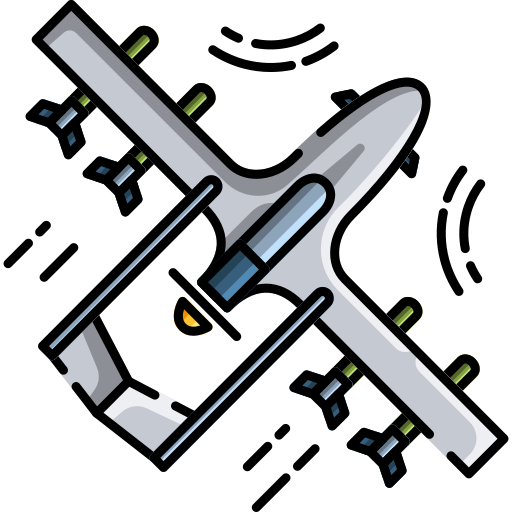
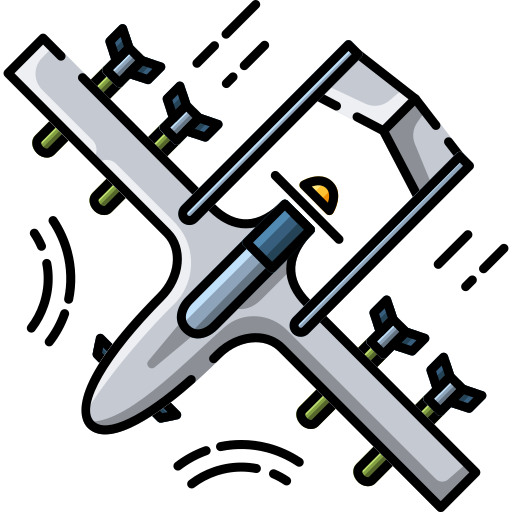
Refactor achievements, autos, and UI indicators
Move achievement detection into Achievements component and remove global achievement state from App; Achievements now receives game state props, tracks unlocked/seen items, and calls onUnlock to play SFX. Export Stages from AutoUpgradeCard and use stage damage for auto-attacks (handleAttack now accepts damage). Update auto/robot/drone stage prices and image asset updated. UpgradeCard now handles MAX state (disables button and shows 'MAX') and Upgrades shows a has-new indicator when affordable upgrades exist. Add .has-new CSS style for visual highlight.

diff --git a/src/App.jsx b/src/App.jsx
@@ -8,27 +8,13 @@ import Money from './Components/Money.jsx';
 import Settings from './Components/Settings.jsx';
 import Achievements from './Components/Achievements.jsx';
 import Upgrades from './Components/Upgrades.jsx';
+import { Stages } from './Components/AutoUpgradeCard.jsx';
 import StartScreen from './Components/StartScreen.jsx';
 import backgroundMusic from './music/background-music.mp3';
 import LevelUpSound from './music/level-up.mp3';
 import MetalTap from './music/metal-tap.mp3';
 import AchievementSound from './music/achievement.mp3';
 import './App.css';
-
-const ACHIEVEMENTS = [
-  { id: 'first_click',  name: 'First Blood',      description: 'Make your first click' },
-  { id: 'clicks_50',   name: 'Warming Up',        description: 'Make 50 clicks' },
-  { id: 'clicks_200',  name: 'Click Machine',     description: 'Make 200 clicks' },
-  { id: 'bonus_coin',  name: 'Lucky Five',        description: 'Trigger the 5-click coin bonus' },
-  { id: 'kills_1',     name: 'First Kill',        description: 'Defeat your first enemy' },
-  { id: 'kills_10',    name: 'Enemy Slayer',       description: 'Defeat 10 enemies' },
-  { id: 'kills_50',    name: 'Destroyer',         description: 'Defeat 50 enemies' },
-  { id: 'coins_50',    name: 'Pocket Change',     description: 'Earn 50 coins' },
-  { id: 'coins_500',   name: 'Stacking Coins',    description: 'Earn 500 coins' },
-  { id: 'level_2',     name: 'Rising Star',       description: 'Reach level 2' },
-  { id: 'level_5',     name: 'Veteran',           description: 'Reach level 5' },
-  { id: 'auto_attack', name: 'Hands Free',        description: 'Buy your first auto upgrade' },
-];
 
 export default function App() {
   const [started, setStarted] = useState(false);
@@ -38,7 +24,6 @@ export default function App() {
   const levelUpSfx = useRef(new Audio(LevelUpSound));
   const metalTapSfx = useRef(new Audio(MetalTap));
   const achievementSfx = useRef(new Audio(AchievementSound));
-  const achievementFirstRender = useRef(true);
 
   levelUpSfx.current.volume = 0.2;
   metalTapSfx.current.volume = 0.2;
@@ -64,7 +49,6 @@ export default function App() {
   const [money, setMoney] = useState(0);
   const [totalMoneyEarned, setTotalMoneyEarned] = useState(0);
   const [enemiesDefeated, setEnemiesDefeated] = useState(0);
-  const [unlockedAchievements, setUnlockedAchievements] = useState(new Set());
 
   const [upgrades, setUpgrades] = useState({
     strength:       { level: 1, progress: 0 },
@@ -79,7 +63,7 @@ export default function App() {
     robot:  { stage: 0 },
   });
 
-  const handleAttack = () => {
+  const handleAttack = (baseDamage = 1) => {
     const newCount = clickCount + 1;
     setClickCount(newCount);
     const coinsEarned = 1 + (newCount % 5 === 0 ? 3 : 0);
@@ -99,7 +83,6 @@ export default function App() {
     const critChance = (critLevel === 'MAX' ? 5 : critLevel - 1) * 0.1;
     const critBonus = Math.random() < critChance ? 5 : 0;
 
-    const baseDamage = 1;
     const enemyMaxHp = level * 20;
     const totalDamage = baseDamage + strengthBonus + staminaBonus + attackBonus + critBonus;
     setProgress(prev => prev - (totalDamage / enemyMaxHp) * 100);
@@ -111,9 +94,11 @@ export default function App() {
   useEffect(() => {
     const interval = setInterval(() => {
       let autoHits = 0;
-      Object.values(autoUpgrades).forEach((upgrade) => {
+      Object.entries(autoUpgrades).forEach(([key, upgrade]) => {
         if (upgrade.stage > 0) {
-          handleAttackRef.current();
+          const stageData = Stages.find(s => s.upgradeName.toLowerCase() === key);
+          const stageDamage = stageData?.stages.find(s => s.stage === upgrade.stage)?.damage ?? 1;
+          handleAttackRef.current(stageDamage);
           autoHits++;
         }
       });
@@ -130,11 +115,6 @@ export default function App() {
   useEffect(() => {
     if (clickCount > 0 && sfx) metalTapSfx.current.play();
   }, [clickCount, sfx]);
-
-  useEffect(() => {
-    if (achievementFirstRender.current) { achievementFirstRender.current = false; return; }
-    if (sfx) achievementSfx.current.play();
-  }, [unlockedAchievements, sfx]);
 
   useEffect(() => {
     const img = new Image();
@@ -160,25 +140,6 @@ export default function App() {
     }
   }, [progress, level]);
 
-  useEffect(() => {
-    setUnlockedAchievements(prev => {
-      const next = new Set(prev);
-      if (clickCount >= 1)   next.add('first_click');
-      if (clickCount >= 50)  next.add('clicks_50');
-      if (clickCount >= 200) next.add('clicks_200');
-      if (clickCount >= 5)   next.add('bonus_coin');
-      if (enemiesDefeated >= 1)  next.add('kills_1');
-      if (enemiesDefeated >= 10) next.add('kills_10');
-      if (enemiesDefeated >= 50) next.add('kills_50');
-      if (totalMoneyEarned >= 50)  next.add('coins_50');
-      if (totalMoneyEarned >= 500) next.add('coins_500');
-      if (level >= 2) next.add('level_2');
-      if (level >= 5) next.add('level_5');
-      if (Object.values(autoUpgrades).some(u => u.stage > 0)) next.add('auto_attack');
-      return next.size !== prev.size ? next : prev;
-    });
-  }, [clickCount, enemiesDefeated, totalMoneyEarned, level, autoUpgrades]);
-
   if (!started) {
     return <StartScreen onStart={handleStart} />;
   }
@@ -198,12 +159,20 @@ export default function App() {
         <Clicks clickCount={autoClickCount} />
       </div>
       <div>
-        <Enemies key={enemyId} id={enemyId} onClick={handleAttack} level={level} />
+        <Enemies key={enemyId} id={enemyId} onClick={() => handleAttack()} level={level} />
         <Progress progress={progress} />
       </div>
       <div className="buttons">
         <Settings music={music} setMusic={setMusic} sfx={sfx} setSfx={setSfx} />
-        <Achievements achievements={ACHIEVEMENTS} unlocked={unlockedAchievements} />
+        <Achievements
+          clickCount={clickCount}
+          enemiesDefeated={enemiesDefeated}
+          totalMoneyEarned={totalMoneyEarned}
+          level={level}
+          autoUpgrades={autoUpgrades}
+          upgrades={upgrades}
+          onUnlock={() => { if (sfx) achievementSfx.current.play(); }}
+        />
         <Upgrades money={money} setMoney={setMoney} upgrades={upgrades} setUpgrades={setUpgrades} autoUpgrades={autoUpgrades} setAutoUpgrades={setAutoUpgrades} />
       </div>
     </div>

diff --git a/src/Components/Achievements.jsx b/src/Components/Achievements.jsx
@@ -1,19 +1,64 @@
-import React, { useState } from "react";
+import React, { useState, useEffect, useRef } from "react";
 import { FaTrophy } from "react-icons/fa6";
 
-const Achievements = ({ achievements, unlocked }) => {
+const ACHIEVEMENTS = [
+  { id: 'bonus_coin',      name: 'Lucky Five',         description: 'Trigger the 5-click coin bonus',         condition: s => s.clickCount >= 5 },
+  { id: 'kills_1',         name: 'First Kill',         description: 'Defeat your first enemy',                condition: s => s.enemiesDefeated >= 1 },
+  { id: 'coins_50',        name: 'Pocket Change',      description: 'Earn 50 coins',                          condition: s => s.totalMoneyEarned >= 50 },
+  { id: 'clicks_50',       name: 'Warming Up',         description: 'Make 50 clicks',                         condition: s => s.clickCount >= 50 },
+  { id: 'combat_beginner', name: 'Combat Initiate',    description: 'Buy your first combat upgrade',          condition: s => Object.values(s.upgrades).some(u => u.level > 1 || u.progress > 0) },
+  { id: 'clicks_500',      name: 'Click Machine',      description: 'Make 500 clicks',                        condition: s => s.clickCount >= 500 },
+  { id: 'kills_10',        name: 'Enemy Slayer',        description: 'Defeat 10 enemies',                      condition: s => s.enemiesDefeated >= 10 },
+  { id: 'kills_50',        name: 'Destroyer',          description: 'Defeat 50 enemies',                      condition: s => s.enemiesDefeated >= 50 },
+  { id: 'coins_500',       name: 'Stacking Coins',     description: 'Earn 500 coins',                         condition: s => s.totalMoneyEarned >= 500 },
+  { id: 'level_10',        name: 'Veteran',            description: 'Reach level 10',                         condition: s => s.level >= 10 },
+  { id: 'level_40',        name: 'Master',             description: 'Reach level 40',                         condition: s => s.level >= 40 },
+  { id: 'level_70',        name: 'Legend',             description: 'Reach level 70',                         condition: s => s.level >= 70 },
+  { id: 'level_100',       name: 'Maxed Out',          description: 'Reach level 100',                        condition: s => s.level >= 100 },
+  { id: 'auto_attack',     name: 'Hands Free',         description: 'Buy your first auto upgrade',            condition: s => Object.values(s.autoUpgrades).some(u => u.stage > 0) },
+  { id: 'auto_attack_5',   name: 'Automation Expert',  description: 'Buy all auto upgrades',                  condition: s => Object.values(s.autoUpgrades).every(u => u.stage >= 5) },
+  { id: 'combat_master',   name: 'Combat Master',      description: 'Reach max level in all combat upgrades', condition: s => Object.values(s.upgrades).every(u => u.level === 'MAX') },
+];
+
+export { ACHIEVEMENTS };
+
+const Achievements = ({ clickCount, enemiesDefeated, totalMoneyEarned, level, autoUpgrades, upgrades, onUnlock }) => {
+  const [unlocked, setUnlocked] = useState(new Set());
+  const [seenCount, setSeenCount] = useState(0);
   const [isOpen, setIsOpen] = useState(false);
+  const onUnlockRef = useRef(onUnlock);
+  useEffect(() => { onUnlockRef.current = onUnlock; });
+
+  useEffect(() => {
+    const state = { clickCount, enemiesDefeated, totalMoneyEarned, level, autoUpgrades, upgrades };
+    const newIds = ACHIEVEMENTS
+      .filter(a => !unlocked.has(a.id) && a.condition(state))
+      .map(a => a.id);
+    if (newIds.length > 0) {
+      setUnlocked(prev => {
+        const next = new Set(prev);
+        newIds.forEach(id => next.add(id));
+        return next;
+      });
+      onUnlockRef.current?.();
+    }
+  }, [clickCount, enemiesDefeated, totalMoneyEarned, level, autoUpgrades, upgrades, unlocked]);
+
+  const handleOpen = () => {
+    if (!isOpen) setSeenCount(unlocked.size);
+    setIsOpen(o => !o);
+  };
 
   return (
     <>
-      <div className="achievements" onClick={() => setIsOpen(!isOpen)}>
+      <div className={`achievements ${unlocked.size > seenCount ? 'has-new' : ''}`} onClick={handleOpen}>
         <FaTrophy className="icon" />
       </div>
 
       <div className={`achievements-menu ${isOpen ? 'open' : ''}`}>
         <h3>Achievements</h3>
         <div className="achievements-grid">
-          {achievements.map(a => {
+          {ACHIEVEMENTS.map(a => {
             const isUnlocked = unlocked.has(a.id);
             return (
               <div key={a.id} className={`achievement-card ${isUnlocked ? 'achievement-card--unlocked' : 'achievement-card--locked'}`}>

diff --git a/src/Components/AutoUpgradeCard.jsx b/src/Components/AutoUpgradeCard.jsx
@@ -16,30 +16,30 @@ import robotCopImage from "../Images/auto/robot/robot-cop.png";
 import militaryRobotImage from "../Images/auto/robot/military-robot.png";
 import robotArnoldImage from "../Images/auto/robot/robot-cyborg.png";
 
-const Stages = [
+export const Stages = [
     {
         upgradeName: "Drone", stages: [
-    {stage: 1, name: "Scrap Drone",    price: 200, damage: 15, image: scrapDroneImage},
-    {stage: 2, name: "Tiny Drone",     price: 300, damage: 25, image: tinyDroneImage},
-    {stage: 3, name: "Large Drone",    price: 400, damage: 35, image: largeDroneImage},
-    {stage: 4, name: "Military Drone", price: 500, damage: 45, image: militaryDroneImage},
-    {stage: 5, name: "Battle Drone",   price: 600, damage: 55, image: battleDroneImage},
+    {stage: 1, name: "Scrap Drone",    price: 500, damage: 15, image: scrapDroneImage},
+    {stage: 2, name: "Tiny Drone",     price: 800, damage: 25, image: tinyDroneImage},
+    {stage: 3, name: "Large Drone",    price: 1400, damage: 35, image: largeDroneImage},
+    {stage: 4, name: "Military Drone", price: 2500, damage: 45, image: militaryDroneImage},
+    {stage: 5, name: "Battle Drone",   price: 4000, damage: 55, image: battleDroneImage},
     ]},
     {
         upgradeName: "Turret", stages: [
-    {stage: 1, name: "Small Turret",   price: 200, damage: 15, image: smallTurretImage},
-    {stage: 2, name: "Large Turret",   price: 300, damage: 25, image: largeTurretImage},
-    {stage: 3, name: "Laser Turret",   price: 400, damage: 35, image: laserTurretImage},
-    {stage: 4, name: "Missile Turret", price: 500, damage: 45, image: missileTurretImage},
-    {stage: 5, name: "Plasma Turret",  price: 600, damage: 55, image: plasmaTurretImage},
+    {stage: 1, name: "Small Turret",   price: 600, damage: 15, image: smallTurretImage},
+    {stage: 2, name: "Large Turret",   price: 900, damage: 25, image: largeTurretImage},
+    {stage: 3, name: "Laser Turret",   price: 1500, damage: 35, image: laserTurretImage},
+    {stage: 4, name: "Missile Turret", price: 2600, damage: 45, image: missileTurretImage},
+    {stage: 5, name: "Plasma Turret",  price: 5000, damage: 55, image: plasmaTurretImage},
     ]},
     {
         upgradeName: "Robot", stages: [
-    {stage: 1, name: "Robot arm",   price: 200, damage: 15, image: robotArmImage},
-    {stage: 2, name: "Robot Friend",   price: 300, damage: 25, image: robotFriendImage},
-    {stage: 3, name: "Robot Cop",      price: 400, damage: 35, image: robotCopImage},
-    {stage: 4, name: "Military Robot", price: 500, damage: 45, image: militaryRobotImage},
-    {stage: 5, name: "Robot Arnold",   price: 600, damage: 55, image: robotArnoldImage},
+    {stage: 1, name: "Robot arm",   price: 700, damage: 15, image: robotArmImage},
+    {stage: 2, name: "Robot Friend",   price: 1000, damage: 25, image: robotFriendImage},
+    {stage: 3, name: "Robot Cop",      price: 1600, damage: 35, image: robotCopImage},
+    {stage: 4, name: "Military Robot", price: 2700, damage: 45, image: militaryRobotImage},
+    {stage: 5, name: "Robot Arnold",   price: 6000, damage: 55, image: robotArnoldImage},
     ]},
 ];
 

diff --git a/src/Components/UpgradeCard.jsx b/src/Components/UpgradeCard.jsx
@@ -10,8 +10,9 @@ export const getUpgradePrice = (level) => {
 };
 
 const UpgradeCard = ({ title, image, progress, level, onUpgrade, money }) => {
+    const isMax = level === 'MAX';
     const price = getUpgradePrice(level);
-    const canAfford = money >= price;
+    const canAfford = !isMax && money >= price;
 
     return (
         <div className="upgrade-item">
@@ -26,10 +27,10 @@ const UpgradeCard = ({ title, image, progress, level, onUpgrade, money }) => {
             </div>
 
             <div
-                className={`upgrade-button ${canAfford ? '' : 'upgrade-button--disabled'}`}
-                onClick={onUpgrade}
+                className={`upgrade-button ${isMax || !canAfford ? 'upgrade-button--disabled' : ''}`}
+                onClick={!isMax ? onUpgrade : undefined}
             >
-                {`Upgrade $${price}`}
+                {isMax ? 'MAX' : `Upgrade $${price}`}
             </div>
         </div>
     );

diff --git a/src/Components/Upgrades.jsx b/src/Components/Upgrades.jsx
@@ -47,9 +47,13 @@ const Upgrades = ({ money, setMoney, upgrades, setUpgrades, autoUpgrades, setAut
     }));
   };
 
+  const hasAffordableUpgrade =
+    Object.values(upgrades).some(u => u.level !== 'MAX' && money >= getUpgradePrice(u.level)) ||
+    Object.values(autoUpgrades).some(u => u.stage < 5 && money >= 200 + u.stage * 100);
+
   return (
     <>
-      <div className="upgrades" onClick={() => setIsOpen(!isOpen)}>
+      <div className={`upgrades ${hasAffordableUpgrade ? 'has-new' : ''}`} onClick={() => setIsOpen(!isOpen)}>
         <FiPlusCircle className="icon" />
       </div>
 

diff --git a/src/App.css b/src/App.css
@@ -200,6 +200,11 @@
   background-color: var(--pale-peach);
 }
 
+.has-new {
+  border: 3px solid var(--dark-pale-green);
+  box-shadow: 0 0 8px var(--dark-pale-green);
+}
+
 .icon {
   width: 100%;
   height: auto;
